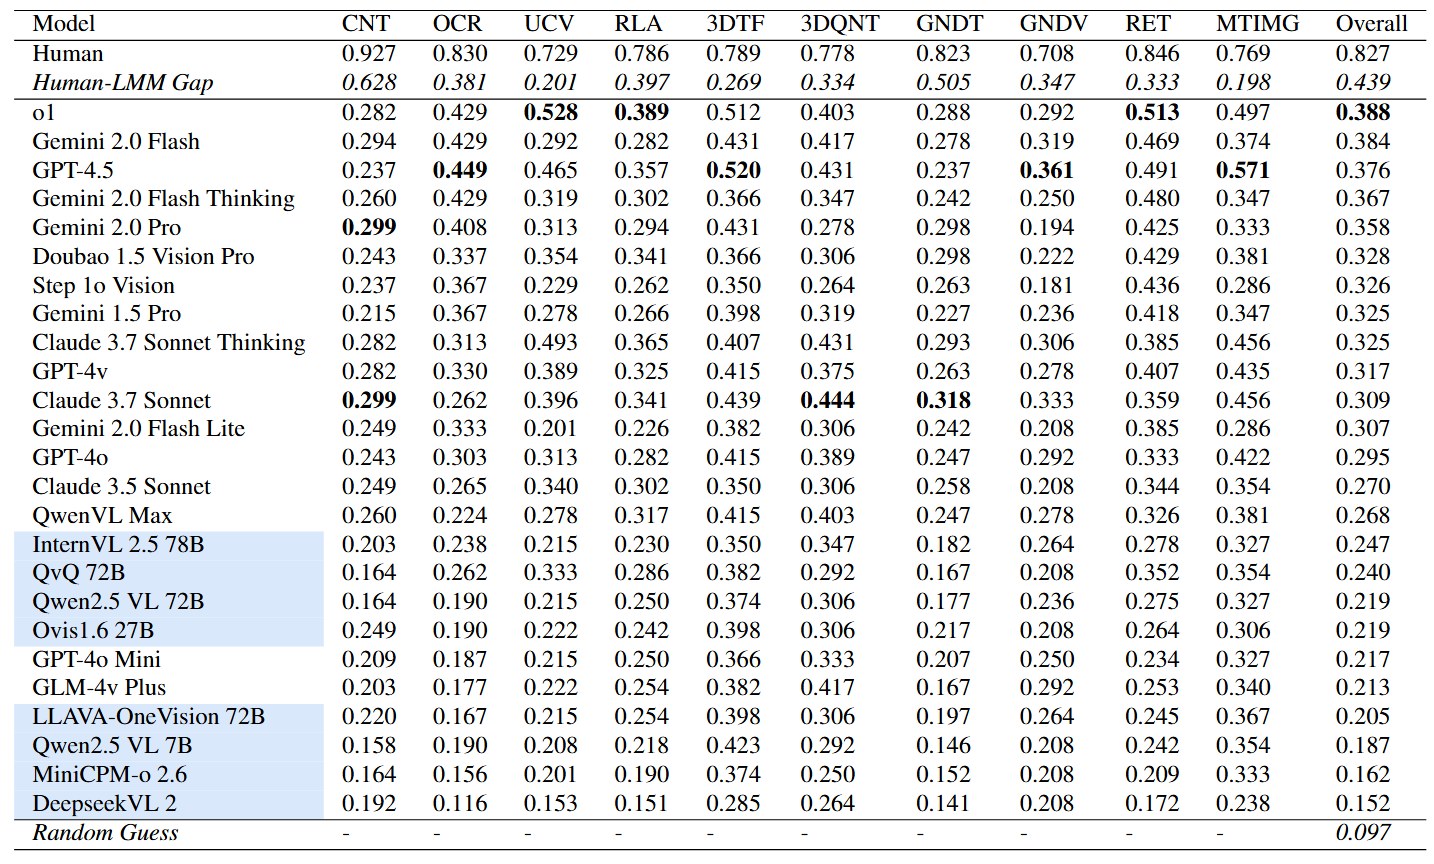
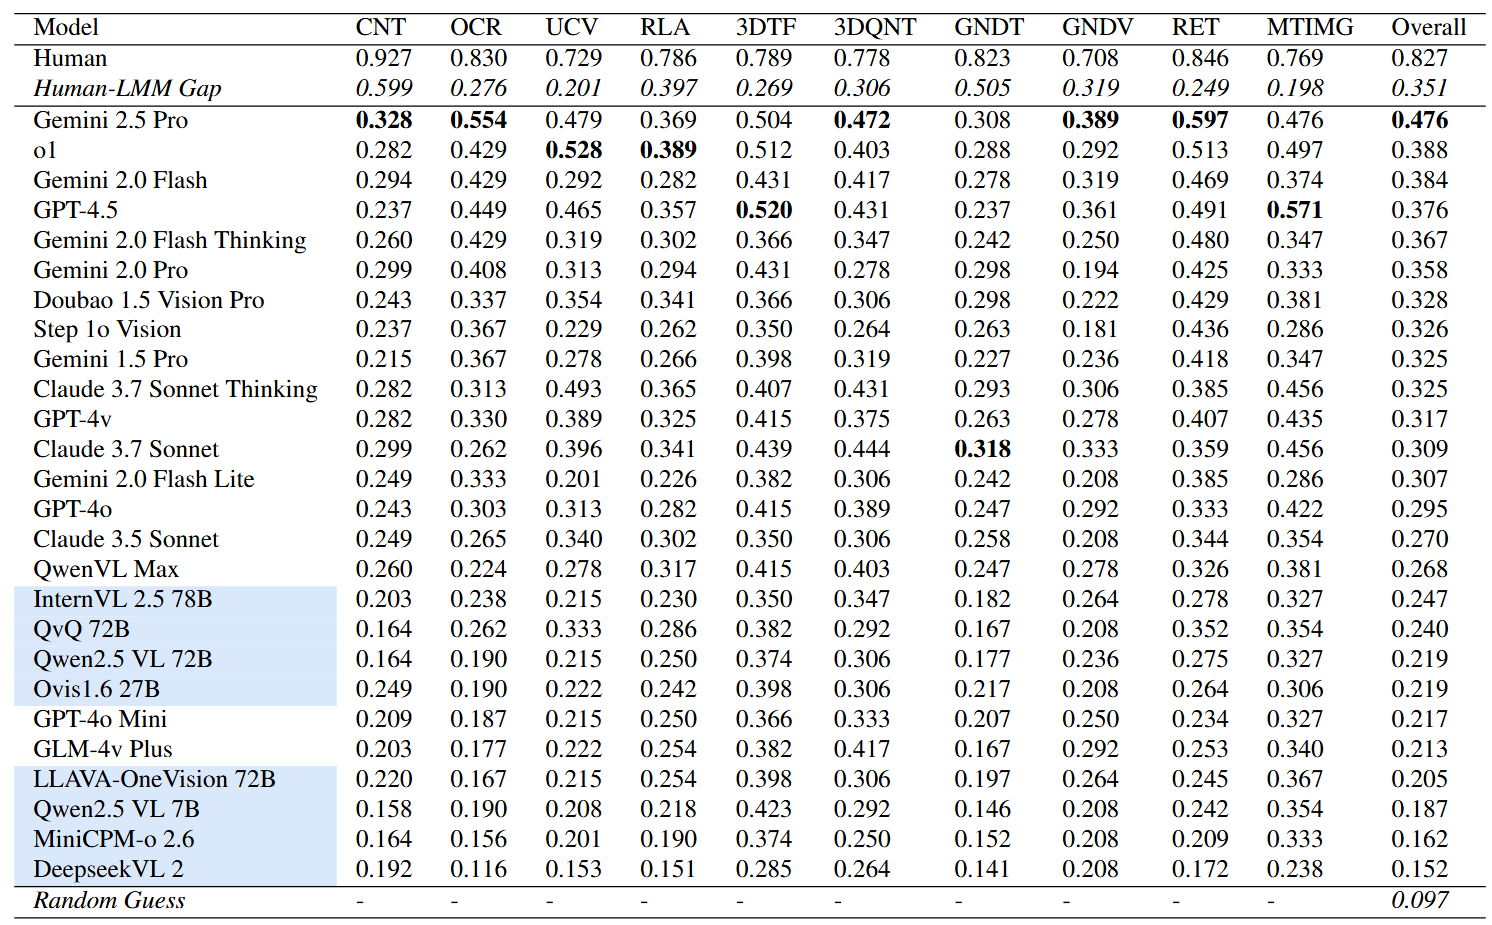
Added results for Gemini 2.5 Pro.

Changed region(s): [[0.0, 0.0, 1.0, 1.0]]

diff --git a/index.html b/index.html
@@ -32,6 +32,7 @@
 
     <h2>News</h2>
     <ul>
+        <li><strong>2025-03-26</strong>: Added results for Gemini 2.5 Pro, which overtook OpenAI o1 as the best performing model on MOAT. However, there is still a long way to go before LMMs reach human-like performance on MOAT!</li>
         <li><strong>2025-03-19</strong>: Added results for GPT 4.5, see the table below for details.</li>
         <li><strong>2025-03-13</strong>: MOAT is now supported by <a href="https://github.com/open-compass/VLMEvalKit" target="_blank">VLMEvalKit</a>! Try it out!</li>
         <li><strong>2025-03-12</strong>: We released MOAT on <a href="https://github.com/Cambrian-yzt/MOAT" target="_blank">GitHub</a> and <a href="https://huggingface.co/datasets/waltsun/MOAT" target="_blank">Hugging Face</a>!</li>

diff --git a/README.md b/README.md
@@ -23,6 +23,7 @@
 
 ## News
 
+- `2025-03-26` Added results for Gemini 2.5 Pro, which overtook OpenAI o1 as the best performing model on MOAT. However, there is still a long way to go before LMMs reach human-like performance on MOAT!
 - `2025-03-19` Added results for GPT 4.5, see the table below for details.
 - `2025-03-13` MOAT is now supported by [VLMEvalKit](https://github.com/open-compass/VLMEvalKit)! Try it out!
 - `2025-03-12` We released MOAT on [GitHub](https://github.com/Cambrian-yzt/MOAT) and [Hugging Face](https://huggingface.co/datasets/waltsun/MOAT)!
